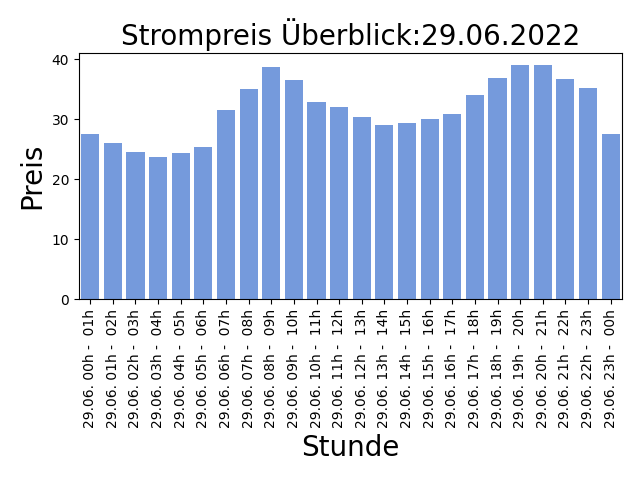
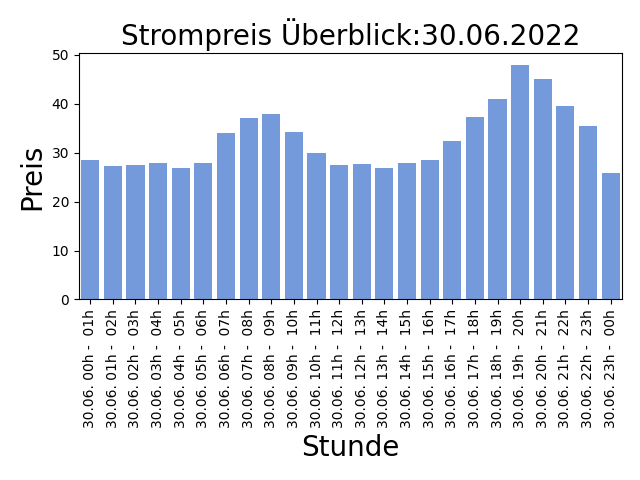
AUTOMATIC UPDATE PRICE LIST: 2022-06-29-14:30:06

diff --git a/README.md b/README.md
@@ -1,5 +1,5 @@
 
-## Strompreise für den 29.06.2022
+## Strompreise für den 30.06.2022
 
 Niedrige Preise deuten auf viel Sonnen und Windenergieerzeugung hin, ein hoher Anteil an erneuerbaren Energien bedeuted weniger CO2 Verbrauch!
 
@@ -7,31 +7,31 @@ Niedrige Preise deuten auf viel Sonnen und Windenergieerzeugung hin, ein hoher A
 
 | Stunde | Preis in Cent/kWh |
 |---|---|
-| 29.06. 00h -  01h | 27.506 | 
-| 29.06. 01h -  02h | 26.127 | 
-| 29.06. 02h -  03h | 24.647 | 
-| **29.06. 03h -  04h** | **23.8** | 
-| 29.06. 04h -  05h | 24.327 | 
-| 29.06. 05h -  06h | 25.402 | 
-| 29.06. 06h -  07h | 31.546 | 
-| 29.06. 07h -  08h | 35.085 | 
-| 29.06. 08h -  09h | 38.695 | 
-| 29.06. 09h -  10h | 36.541000000000004 | 
-| 29.06. 10h -  11h | 32.964 | 
-| 29.06. 11h -  12h | 32.093 | 
-| 29.06. 12h -  13h | 30.391000000000002 | 
-| 29.06. 13h -  14h | 29.139999999999997 | 
-| 29.06. 14h -  15h | 29.455000000000002 | 
-| 29.06. 15h -  16h | 30.085 | 
-| 29.06. 16h -  17h | 30.891000000000002 | 
-| 29.06. 17h -  18h | 34.107 | 
-| 29.06. 18h -  19h | 36.886 | 
-| 29.06. 19h -  20h | 39.089999999999996 | 
-| 29.06. 20h -  21h | 39.0 | 
-| 29.06. 21h -  22h | 36.69 | 
-| 29.06. 22h -  23h | 35.277 | 
-| 29.06. 23h -  00h | 27.558 | 
+| 30.06. 00h -  01h | 28.504 | 
+| 30.06. 01h -  02h | 27.258 | 
+| 30.06. 02h -  03h | 27.472 | 
+| 30.06. 03h -  04h | 27.8 | 
+| 30.06. 04h -  05h | 26.762999999999998 | 
+| 30.06. 05h -  06h | 27.786 | 
+| 30.06. 06h -  07h | 33.977 | 
+| 30.06. 07h -  08h | 36.989 | 
+| 30.06. 08h -  09h | 37.963 | 
+| 30.06. 09h -  10h | 34.175 | 
+| 30.06. 10h -  11h | 29.901999999999997 | 
+| 30.06. 11h -  12h | 27.401999999999997 | 
+| 30.06. 12h -  13h | 27.631999999999998 | 
+| 30.06. 13h -  14h | 26.897000000000002 | 
+| 30.06. 14h -  15h | 27.807 | 
+| 30.06. 15h -  16h | 28.579 | 
+| 30.06. 16h -  17h | 32.409 | 
+| 30.06. 17h -  18h | 37.244 | 
+| 30.06. 18h -  19h | 40.941 | 
+| 30.06. 19h -  20h | 47.9 | 
+| 30.06. 20h -  21h | 45.0 | 
+| 30.06. 21h -  22h | 39.421 | 
+| 30.06. 22h -  23h | 35.517 | 
+| **30.06. 23h -  00h** | **25.808** | 
 
 Preise der EPEX Spot ® Strombörse (neue Preise werden täglich um 14:00 veröffentlicht für den kompletten nächsten Tag).
 
-letzte Aktualisierung:28.06.2022 14:30
+letzte Aktualisierung:29.06.2022 14:30
